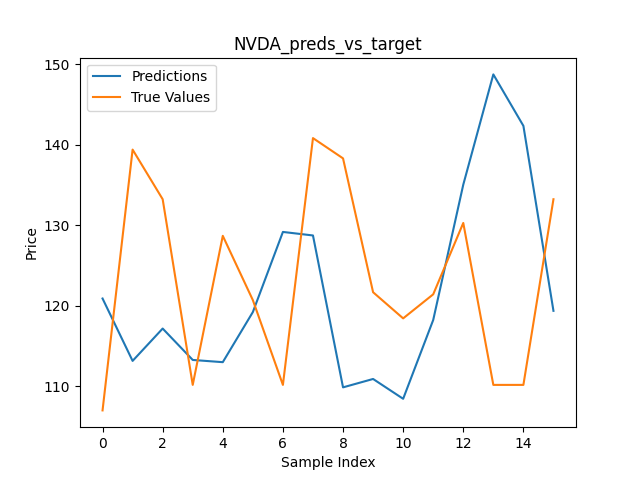
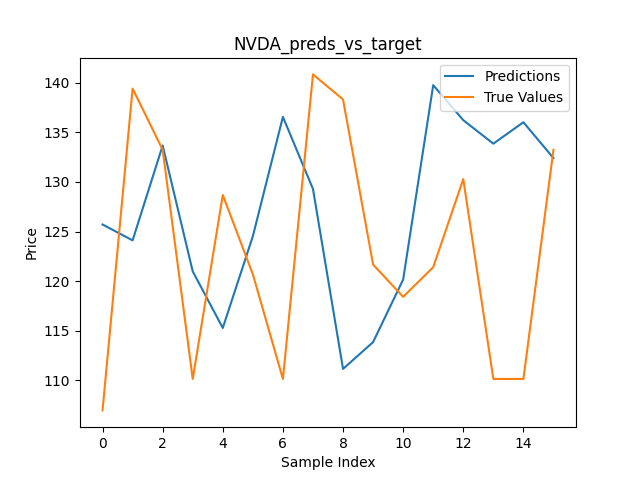
more training

diff --git a/train.py b/train.py
@@ -134,8 +134,8 @@ def plot_preds_vs_target(preds: np.ndarray, targets: np.ndarray, ticker):
 
 if __name__ == "__main__":
 
-    ticker = "NVDA"
-    # ticker = "SPY"
+    # ticker = "NVDA"
+    ticker = "SPY"
     start, end = "2025-01-01", "2025-04-24"
 
     #--------------- Load and prep data --------------------#
@@ -162,7 +162,7 @@ if __name__ == "__main__":
         device,
         start,
         end,
-        load_embeddings=True
+        load_embeddings=False
     )
     dates = [d.normalize() for d in dates]
 
@@ -185,14 +185,15 @@ if __name__ == "__main__":
     n_days, M, D = market_tensor.shape
     price_model = PriceLSTM(M, D).to(device)
 
-    optimizer = torch.optim.Adam(price_model.parameters(), lr=1e-3)    
+    optimizer = torch.optim.Adam(price_model.parameters(), lr=1e-4)    
     
     loss_fn = nn.MSELoss()
 
-    train(price_model, train_loader, ticker, epochs=100)
+    train(price_model, train_loader, ticker, epochs=5000)
 
-    load = False
-    if load:
+    # Load existing model?
+    load_model = False
+    if load_model:
         torch.load(price_model.state_dict(), f"{ticker}_model.pth")
     mse, rmse, preds, y_true = evaluate(price_model, test_loader)
     print(f"Test  — MSE: {mse:.4f}, RMSE: {rmse:.4f}")

diff --git a/encode.py b/encode.py
@@ -20,7 +20,7 @@ def embed_texts(texts, tokenizer, model, device, batch_size=32):
         texts,
         padding=True,
         truncation=True,
-        max_length=64,
+        max_length=128,
         return_tensors="pt",
         return_attention_mask=True
     )
